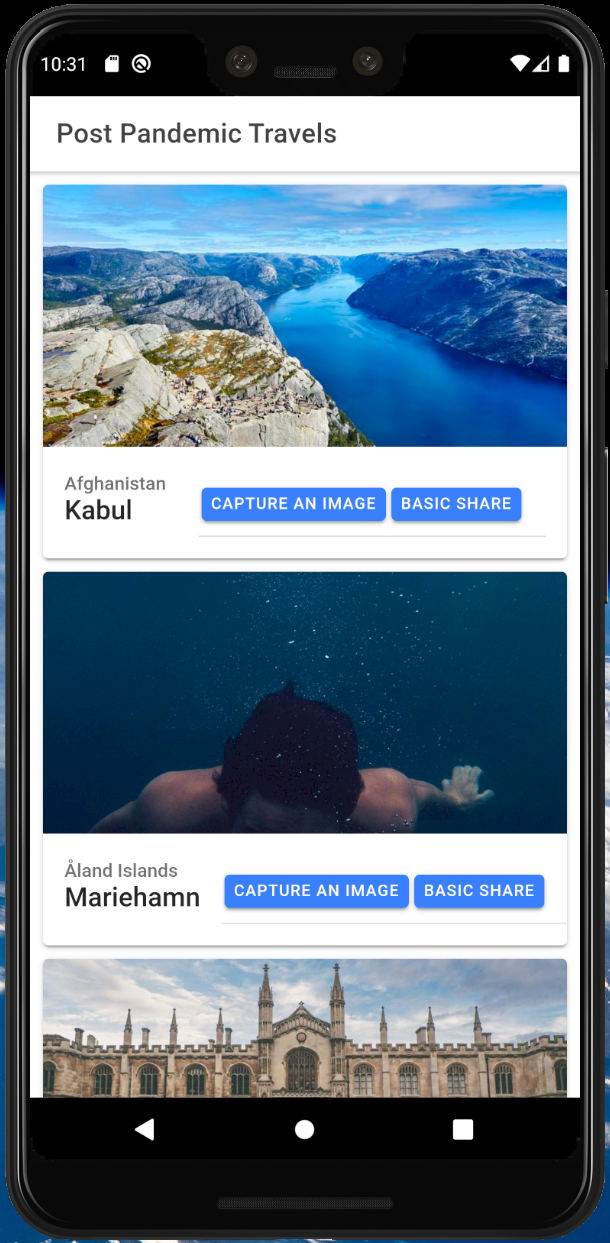
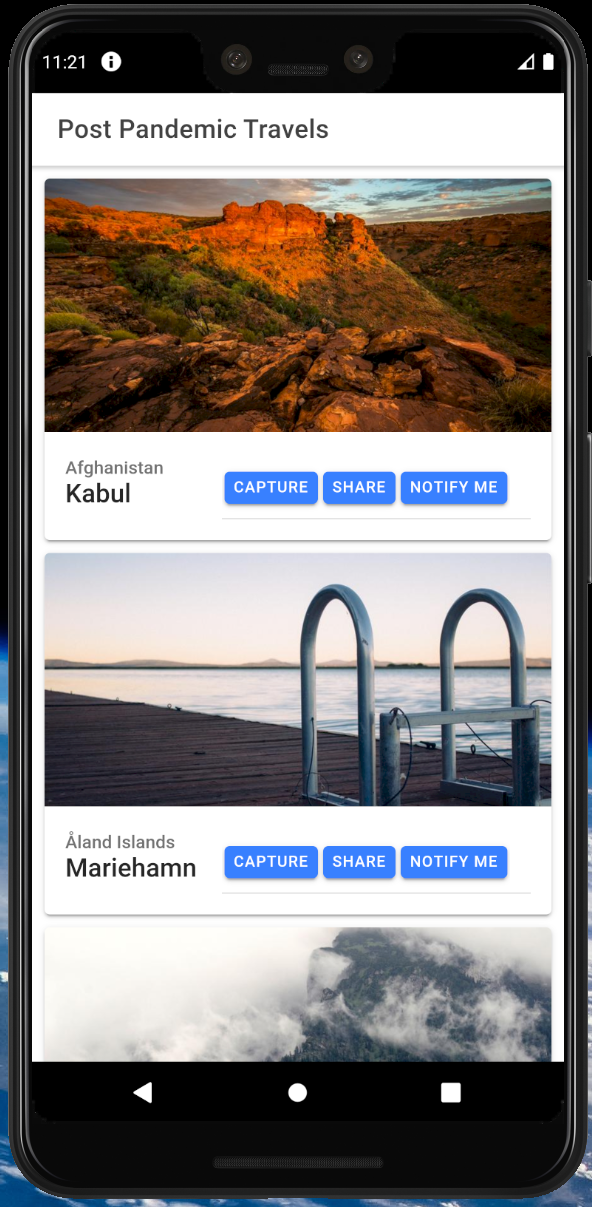
updated

diff --git a/src/App.tsx b/src/App.tsx
@@ -33,23 +33,18 @@ import '@ionic/react/css/display.css';
 /* Theme variables */
 import './theme/variables.css';
 
-import {
-  ApolloClient,
-  ApolloProvider,
-  gql,
-  InMemoryCache,
-} from '@apollo/client';
+import { ApolloClient, ApolloProvider, InMemoryCache } from '@apollo/client';
 import { CountriesResponseType, CountryModel } from './models/country.model';
 import { COUNTRIES_QUERY } from './graphql/queries';
 import { CameraResultType, CameraSource, Plugins } from '@capacitor/core';
 
-const { Share } = Plugins;
+const { Share, LocalNotifications } = Plugins;
 
 const BASE_URL = 'http://countries-274616.ew.r.appspot.com/';
 
 const App: React.FC = () => {
   const [graphqlResponse, setGraphqlResponse] = useState<any>({});
-  const [loading, setLoading] = useState(false);
+
   const client = new ApolloClient({
     cache: new InMemoryCache(),
     uri: BASE_URL,
@@ -57,7 +52,7 @@ const App: React.FC = () => {
   });
 
   useEffect(() => {
-    setLoading(true);
+    localNotifications().then();
     client
       .query({
         query: COUNTRIES_QUERY,
@@ -65,8 +60,9 @@ const App: React.FC = () => {
       .then((res: CountriesResponseType) => {
         setGraphqlResponse(res);
       })
-      .catch(err => alert(err.message))
-      .finally(() => setLoading(false));
+      .catch(err => {
+        alert(err.message);
+      });
   }, [client]);
 
   const shareImage = async () => {
@@ -91,6 +87,26 @@ const App: React.FC = () => {
     });
   };
 
+  const localNotifications = async () => {
+    await LocalNotifications.requestPermission();
+  };
+
+  const scheduleBasic = async () => {
+    await LocalNotifications.schedule({
+      notifications: [
+        {
+          title: 'Friendly Reminder from Devlin',
+          body: "Meet project's deadline",
+          id: 1,
+          extra: {
+            data: 'pass data to your handler',
+          },
+          iconColor: '#0000FF',
+        },
+      ],
+    });
+  };
+
   // TODO: shareLocalFile
 
   return (
@@ -102,18 +118,7 @@ const App: React.FC = () => {
           </IonToolbar>
         </IonHeader>
         <IonContent fullscreen>
-          {loading && (
-            <div
-              style={{
-                margin: '1rem',
-                display: 'flex',
-                justifyContent: 'center',
-              }}
-            >
-              <IonSpinner name="crescent" />
-            </div>
-          )}
-          {graphqlResponse.data &&
+          {graphqlResponse.data ? (
             graphqlResponse.data.Country.map((country: CountryModel) => (
               <IonCard key={country.name}>
                 <img
@@ -134,7 +139,7 @@ const App: React.FC = () => {
                   <div>
                     <IonItem>
                       <IonButton onClick={() => shareImage()}>
-                        Capture an image
+                        Capture
                       </IonButton>
                       <IonButton
                         onClick={() =>
@@ -143,13 +148,27 @@ const App: React.FC = () => {
                           )
                         }
                       >
-                        Basic Share
+                        Share
+                      </IonButton>
+                      <IonButton onClick={async () => await scheduleBasic()}>
+                        Notify Me
                       </IonButton>
                     </IonItem>
                   </div>
                 </IonCardHeader>
               </IonCard>
-            ))}
+            ))
+          ) : (
+            <div
+              style={{
+                margin: '1rem',
+                display: 'flex',
+                justifyContent: 'center',
+              }}
+            >
+              <IonSpinner name="crescent" />
+            </div>
+          )}
         </IonContent>
       </IonPage>
     </ApolloProvider>

diff --git a/README.md b/README.md
@@ -32,6 +32,8 @@ $ ionic capacitor run ios --livereload
 
 #### TODO
 
+- https://ionicacademy.com/capacitor-local-notifications/
+- https://devdactic.com/push-notifications-ionic-capacitor/
 - https://ionicframework.com/docs/native/push
 - https://ionicframework.com/docs/native/local-notifications
 - https://ionicframework.com/docs/native/social-sharing
